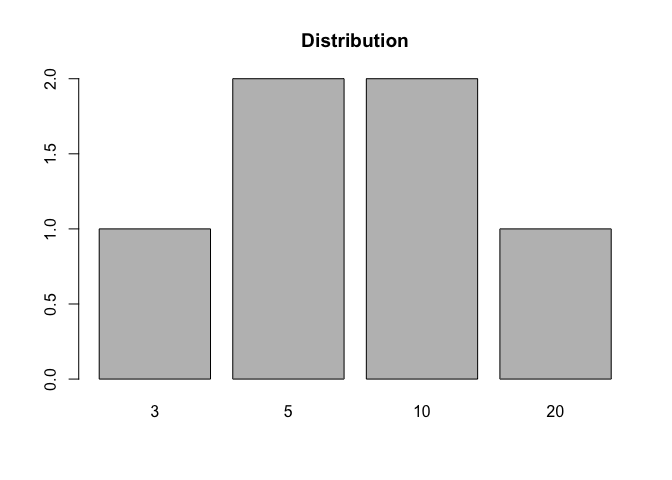
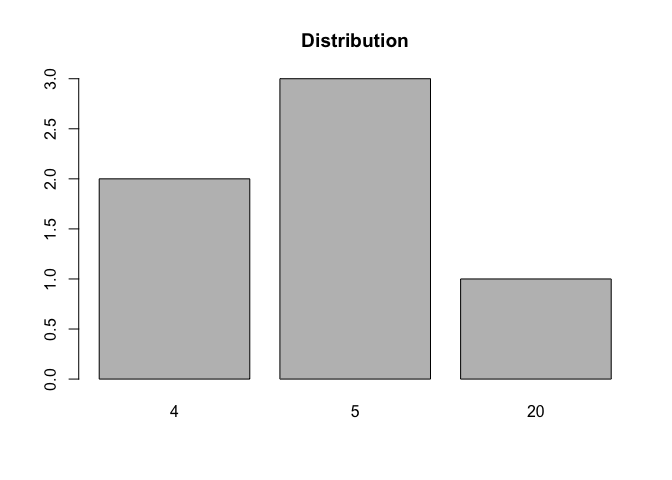
Update Readme file and docuemntation.

diff --git a/README.md b/README.md
@@ -7,6 +7,7 @@
 
 [![documentation](https://img.shields.io/badge/documentation-fnpol-green.svg)](https://github.com/vincehass/Advanced-Computational-Statistics-and-Functional-Programming/tree/master/1-Fnpol)
 [![contributions](https://img.shields.io/badge/contributions-welcome-red.svg)](https://github.com/vincehass/Advanced-Computational-Statistics-and-Functional-Programming/tree/master/1-Fnpol)
+[![check](https://img.shields.io/badge/check-passed-green.svg)](https://github.com/vincehass/Advanced-Computational-Statistics-and-Functional-Programming/tree/master/1-Fnpol)
 <!-- badges: end -->
 
 The goal of fnpol is to provide functionalities for fast computation for
@@ -17,8 +18,9 @@ and polynomials series.
 
 ## Installation
 
-You can install the released version of fnpol from
-[CRAN](https://CRAN.R-project.org) with:
+You need to load `usethis::use_package(devtools)` and
+`library(devtools)`. You can install the released version of **fnpol**
+from [CRAN](https://CRAN.R-project.org) with:
 
 ``` r
 install.packages("fnpol")
@@ -26,6 +28,8 @@ install.packages("fnpol")
 
 ``` r
 library(fnpol)
+library(devtools)
+#> Loading required package: usethis
 devtools::load_all()
 #> Loading fnpol
 ```
@@ -47,15 +51,15 @@ The fourier transform is defined as the sum of \(N\) complexs number
 where \(i\) is the imaginary part and the complex serie
 \((x_n)_{n=0}^{N-1}\) \(\in \mathbb{C}\).
 
-### Naive form Fast Fourier Inverse
+### Naive form Fast Fourier Transform
 
 ``` r
 vec_com<-sample(complex(real=sample(1:20,16), imaginary = sample(1:20,16)),16)
 vec_com
-#>  [1]  2+14i 10+ 1i 18+19i  8+18i 20+ 8i 16+16i 13+ 7i 12+ 5i 11+ 3i  7+11i
-#> [11]  3+ 6i 14+15i  9+ 9i  6+20i  4+10i 19+12i
+#>  [1] 15+11i  5+ 7i  6+17i  9+10i  7+16i 19+ 4i 17+ 1i 20+20i 13+ 8i 10+19i
+#> [11] 14+18i  1+12i 18+ 9i  3+ 5i 16+ 3i 12+ 2i
 dft1_naive(vec_com,k=3)
-#> [1] -8.673226
+#> [1] -7.901219
 ```
 
 ### Iterative Form for Fast Fourier Transform
@@ -63,7 +67,7 @@ dft1_naive(vec_com,k=3)
 ``` r
 
 dft1_iter(vec_com,k=3)
-#> [1] -8.673226
+#> [1] -7.901219
 ```
 
 ### Matrix Form for Fast Fourier Transform
@@ -72,7 +76,7 @@ dft1_iter(vec_com,k=3)
 
 dft1_matrix(vec_com,k=3)
 #>           [,1]
-#> [1,] -8.673226
+#> [1,] -7.901219
 ```
 
 ### Comparaison of all methods for Fast Fourier Transform
@@ -108,12 +112,12 @@ implement the algorithm below.
 
 ``` r
 fft_ct2(vec_com)
-#>  [1] 172.000000+174.000000i  -2.999929-  7.914493i -10.828427- 22.384776i
-#>  [4]  -1.885935-  8.673226i   2.000000+  6.000000i -55.245884+ 18.498313i
-#>  [7] -32.485281+ 42.183766i -21.373785+ 48.212341i -12.000000- 22.000000i
-#> [10]   5.627346-  3.399215i  -5.171573+ 14.384776i  -8.457211-  3.895316i
-#> [13]   6.000000- 22.000000i  12.618467-  7.184605i -15.514719- 34.183766i
-#> [16]  -0.283069+ 52.356201i
+#>  [1] 185.000000+162.000000i -15.032721- 31.763374i  56.627417+ 39.526912i
+#>  [4]   8.350120-  7.901219i  -9.000000+ 10.000000i  21.760457+ 25.312533i
+#>  [7] -26.585786- 10.514719i   5.353723-  7.464730i  27.000000+  4.000000i
+#> [10]  16.062158+ 71.077083i  11.372583- 25.526912i  -9.864838+  0.386500i
+#> [13]   9.000000+  0.000000i  13.210106-  8.626241i -29.414214- 27.485281i
+#> [16] -23.839004- 17.020551i
 ```
 
 ## Comparaison tool Fast Fourier Transform
@@ -152,12 +156,12 @@ simulator_sum<-function(v1,v2,trans=identity){
 lapply(list(length(c(v1,v2))),realization_sum(v1,v2, trans))};
 simulator_sum(c(1,2,3),c(2,3,4), identity);
 #> [[1]]
-#> [1] 3 7 7 7 3 5
+#> [1] 5 7 7 5 7 7
 f2<-function(x) x**2;
 sim_sum<-simulator_sum(c(1,2,3),c(2,3,4), f2);
 sim_sum
 #> [[1]]
-#> [1] 25 25 25  9 49 25
+#> [1]  9  9 25 49 49 49
 ```
 
 ### Proportion of the simulated random variable
@@ -169,12 +173,12 @@ sim_tran<-simulator_tran(xs)
 sim_tran2<-simulator_tran(xs,f2);
 simulator_prop(sim_tran);
 #> 
-#> 10 20 
-#>  2  4
+#>  3  4 10 20 
+#>  1  1  1  3
 simulator_prop(sim_tran2)
 #> 
-#>  36 100 400 
-#>   1   3   2
+#>  25  36 100 400 
+#>   1   1   2   2
 ```
 
 ### Histogram of realized random variables
@@ -186,8 +190,8 @@ sim_tran<-simulator_tran(xs)
 sim_tran2<-simulator_tran(xs,f2);
 simulator_prop(sim_tran);
 #> 
-#>  3  5 10 20 
-#>  1  2  2  1
+#>  4  5 20 
+#>  2  3  1
 simulator_bar(sim_tran);
 ```
 
@@ -214,15 +218,15 @@ w<-sequence_long(sets = c(2L, 2L, 5L, 6L, 6L, 6L, 7L, 9L),
 lowerb = -1e10,
 upperb = 1e10)
 tracking_operator(data = w, k=30,i=4)
-#> The result of  42  has been obtained by this set of numbers  2 6 6 7 6  and the following operation
+#> The result of  15625  has been obtained by this set of numbers  2 9 6 5 6  and the following operation
 #> [[1]]
-#> function (e1, e2)  .Primitive("^")
+#> function (e1, e2)  .Primitive("+")
 #> 
 #> [[2]]
-#> function (e1, e2)  .Primitive("-")
+#> function (e1, e2)  .Primitive("*")
 #> 
 #> [[3]]
-#> function (e1, e2)  .Primitive("*")
+#> function (e1, e2)  .Primitive("-")
 #> 
 #> [[4]]
 #> function (e1, e2)  .Primitive("^")
@@ -230,18 +234,18 @@ tracking_operator(data = w, k=30,i=4)
 #> [[5]]
 #> function (e1, e2)  .Primitive("/")
 tracking_operator(data = w, k=10, i=5)
-#> The result of  49  has been obtained by this set of numbers  6 2 6 5 7  and the following operation
+#> The result of  13  has been obtained by this set of numbers  6 5 2 9 6  and the following operation
 #> [[1]]
-#> function (e1, e2)  .Primitive("^")
-#> 
-#> [[2]]
 #> function (e1, e2)  .Primitive("*")
 #> 
+#> [[2]]
+#> function (e1, e2)  .Primitive("/")
+#> 
 #> [[3]]
-#> function (e1, e2)  .Primitive("^")
+#> function (e1, e2)  .Primitive("/")
 #> 
 #> [[4]]
-#> function (e1, e2)  .Primitive("+")
+#> function (e1, e2)  .Primitive("-")
 #> 
 #> [[5]]
 #> function (e1, e2)  .Primitive("+")
